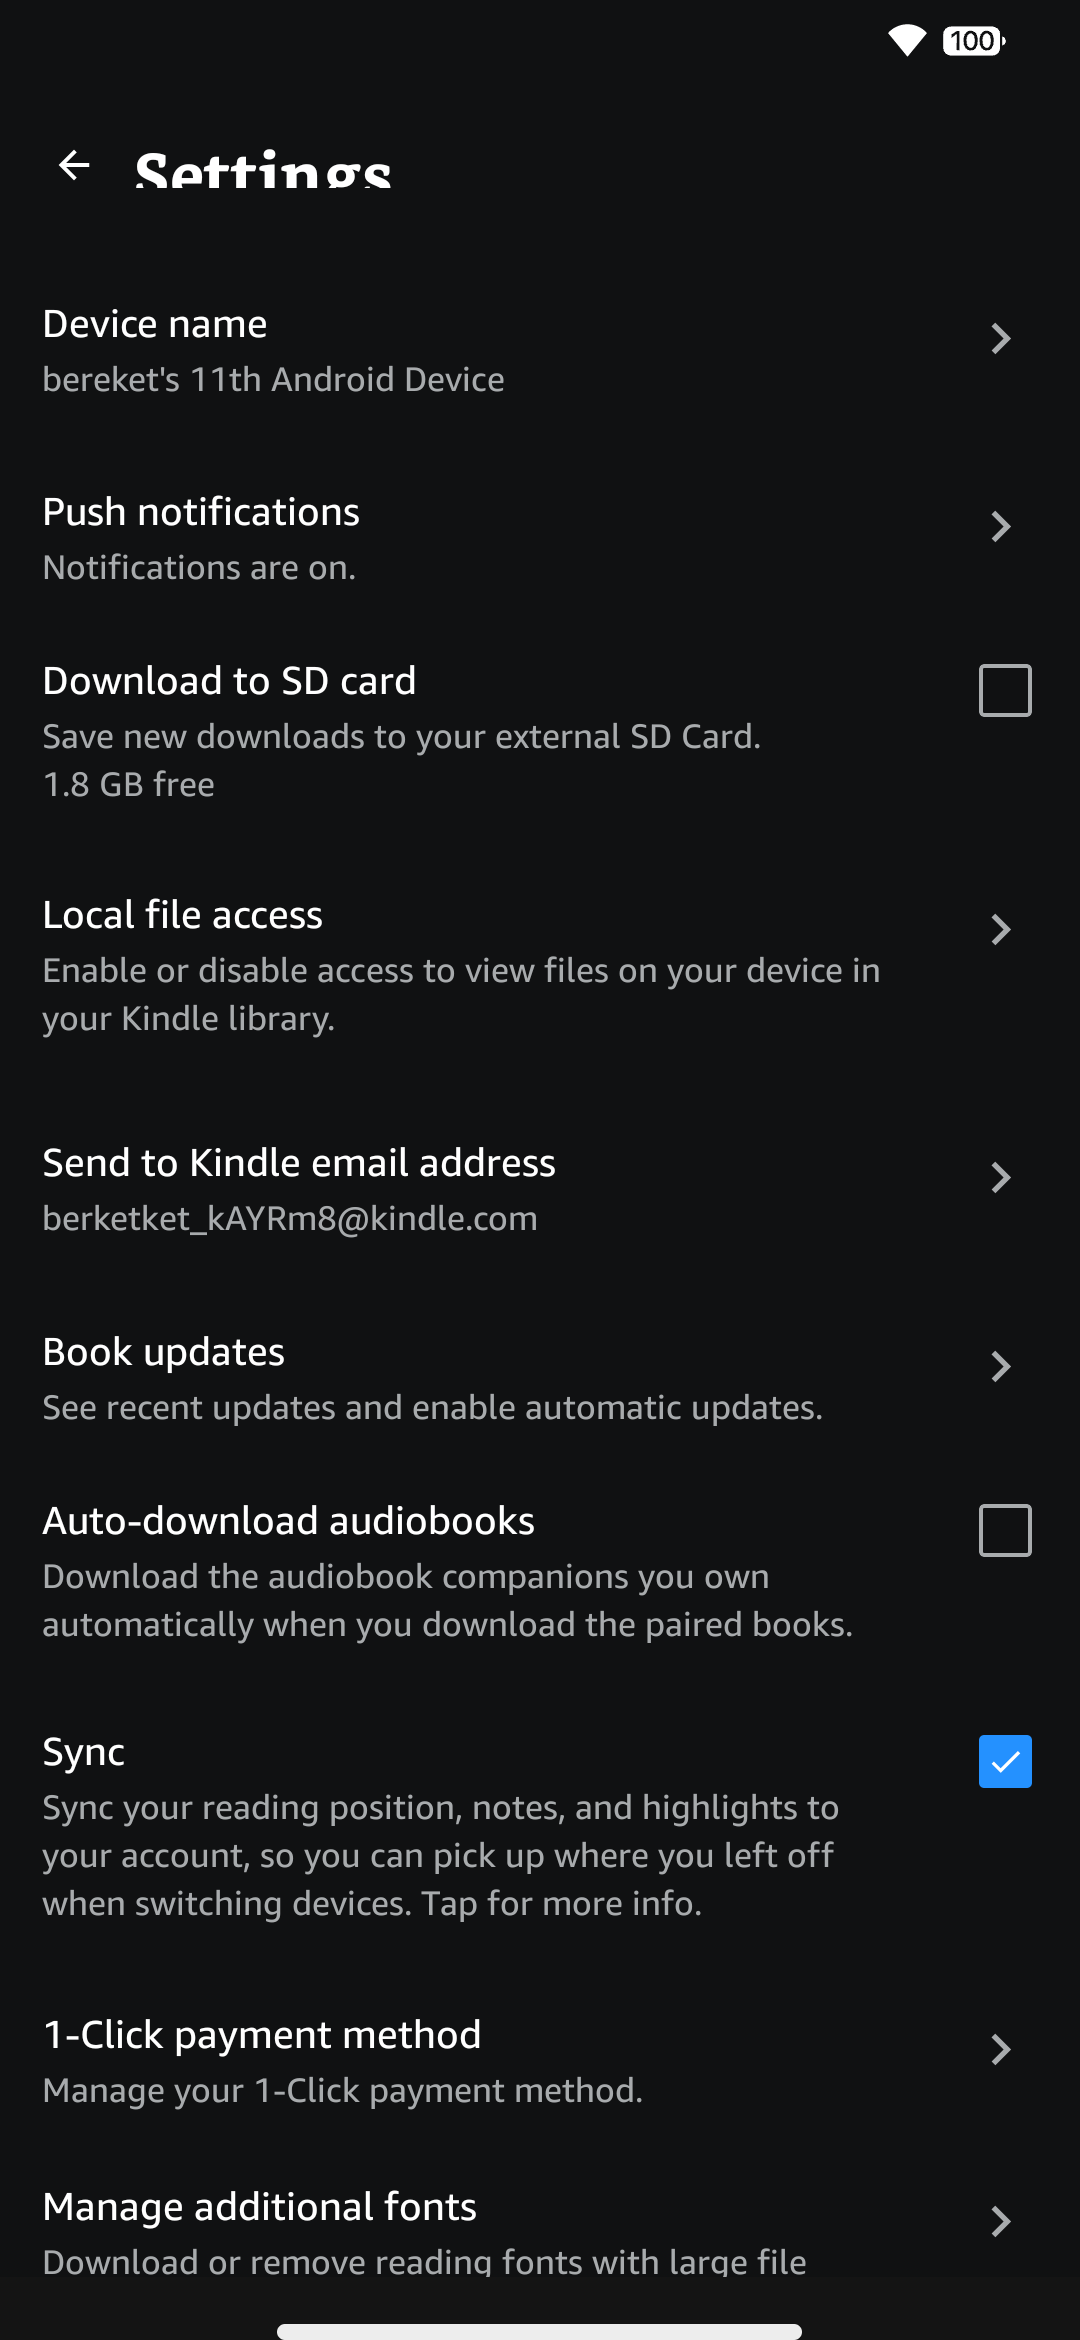
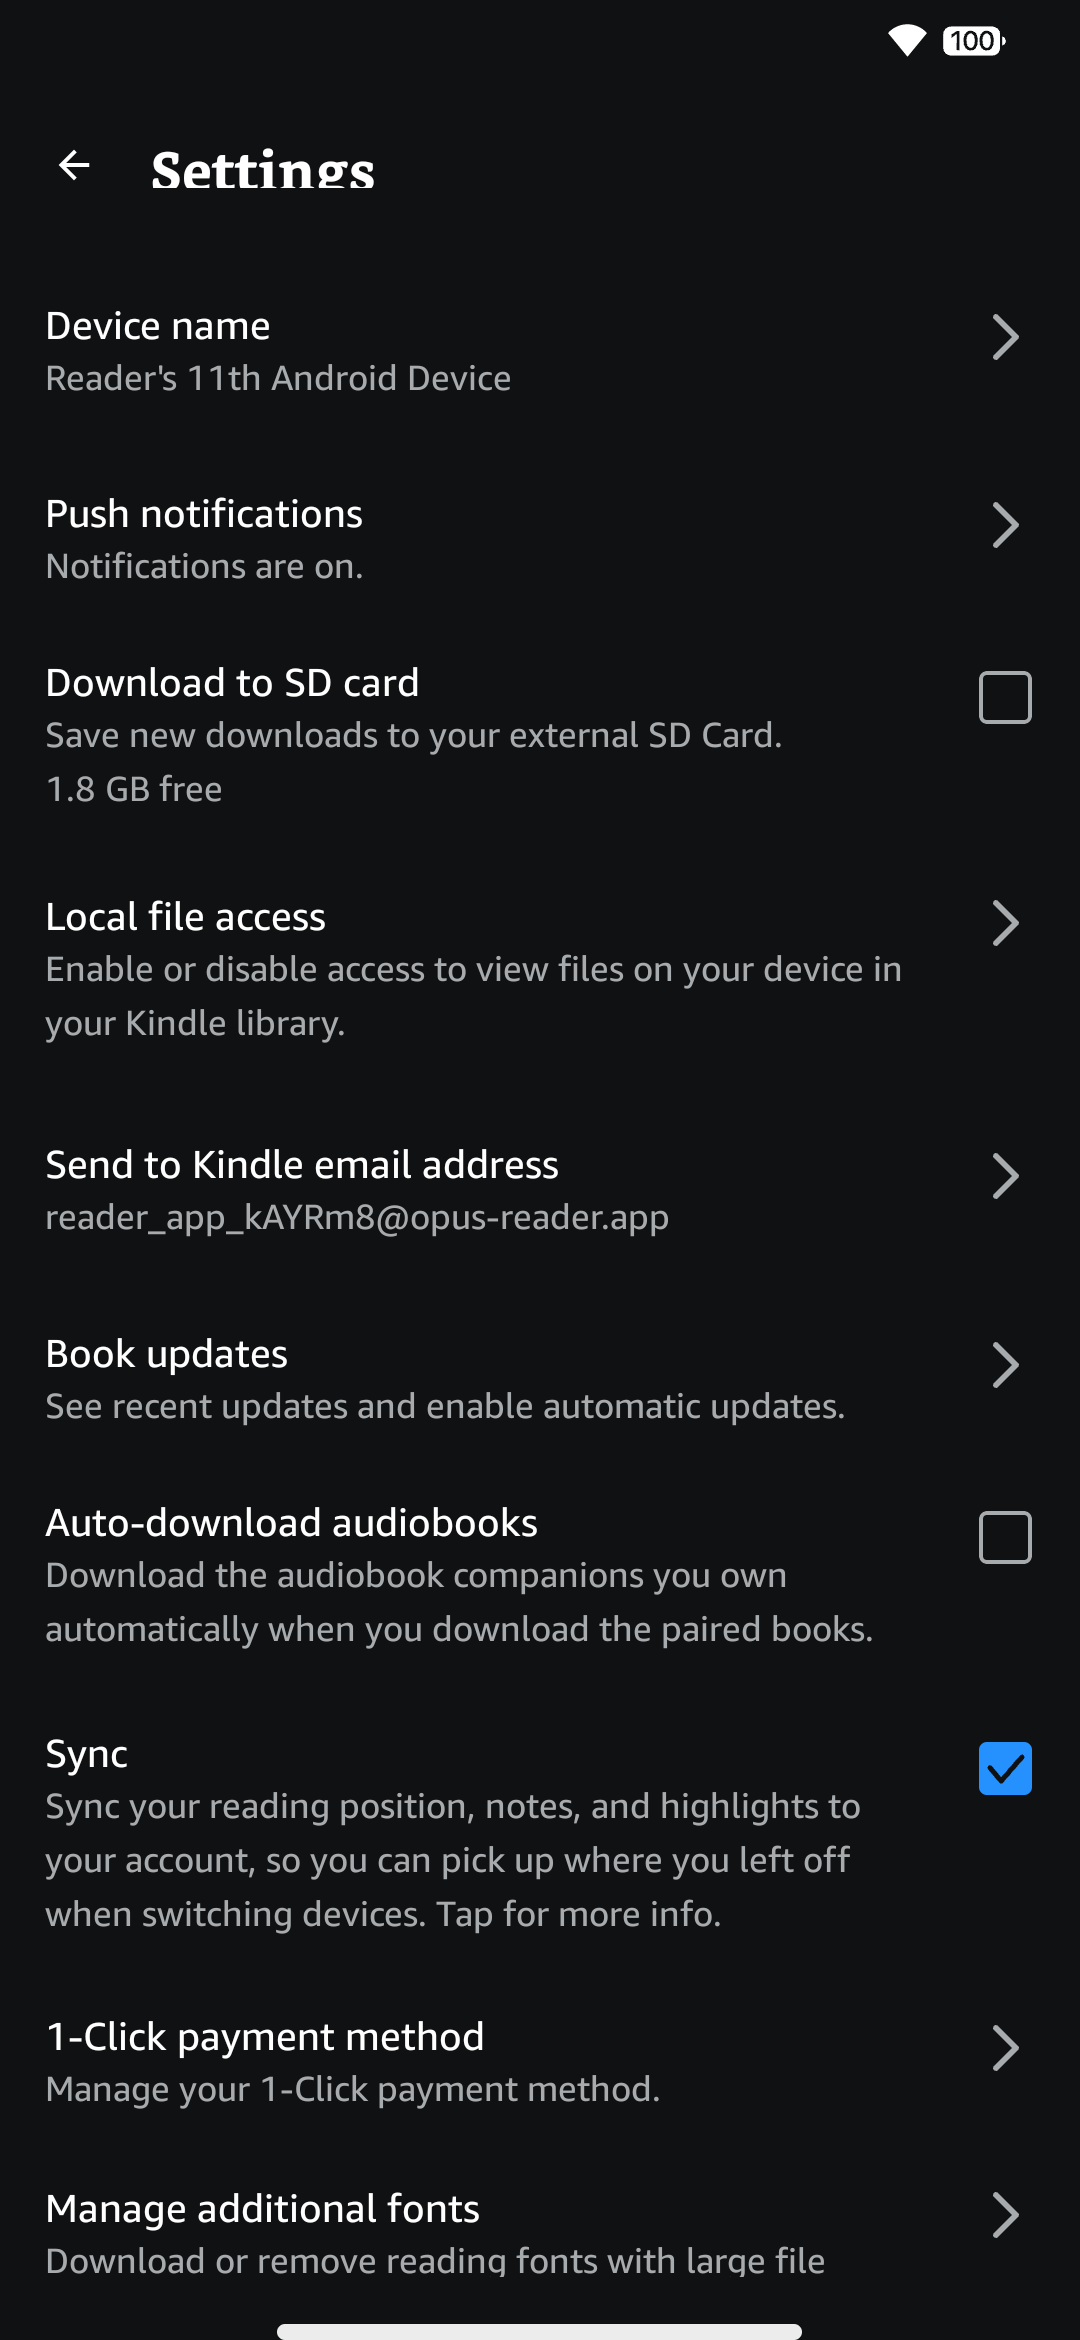
feat(real-ui): calibrate D04 Settings screen layout and verify with honest harness

diff --git a/app/src/main/java/app/opusreader/ui/screens/SettingsScreen.kt b/app/src/main/java/app/opusreader/ui/screens/SettingsScreen.kt
@@ -5,6 +5,7 @@ import android.provider.OpenableColumns
 import android.widget.Toast
 import androidx.activity.compose.rememberLauncherForActivityResult
 import androidx.activity.result.contract.ActivityResultContracts
+import androidx.compose.foundation.Canvas
 import androidx.compose.foundation.Image
 import androidx.compose.foundation.background
 import androidx.compose.foundation.border
@@ -24,8 +25,6 @@ import androidx.compose.foundation.shape.RoundedCornerShape
 import androidx.compose.foundation.verticalScroll
 import androidx.compose.material.icons.Icons
 import androidx.compose.material.icons.automirrored.filled.ArrowBack
-import androidx.compose.material.icons.automirrored.filled.KeyboardArrowRight
-import androidx.compose.material.icons.filled.Check
 import androidx.compose.material3.AlertDialog
 import androidx.compose.material3.Icon
 import androidx.compose.material3.IconButton
@@ -34,6 +33,7 @@ import androidx.compose.material3.OutlinedTextFieldDefaults
 import androidx.compose.material3.Text
 import androidx.compose.material3.TextButton
 import androidx.compose.runtime.Composable
+import androidx.compose.runtime.LaunchedEffect
 import androidx.compose.runtime.getValue
 import androidx.compose.runtime.mutableStateOf
 import androidx.compose.runtime.remember
@@ -42,19 +42,21 @@ import androidx.compose.ui.Alignment
 import androidx.compose.ui.Modifier
 import androidx.compose.ui.draw.clip
 import androidx.compose.ui.graphics.Color
-import androidx.compose.ui.layout.ContentScale
+import androidx.compose.ui.graphics.Path
+import androidx.compose.ui.graphics.StrokeCap
+import androidx.compose.ui.graphics.StrokeJoin
+import androidx.compose.ui.graphics.drawscope.Stroke
 import androidx.compose.ui.platform.LocalContext
-import androidx.compose.ui.res.painterResource
 import androidx.compose.ui.text.font.FontWeight
 import androidx.compose.ui.tooling.preview.Preview
 import androidx.compose.ui.unit.Dp
 import androidx.compose.ui.unit.dp
 import androidx.compose.ui.unit.sp
-import app.opusreader.R
 import app.opusreader.data.Book
 import app.opusreader.data.ContentType
 import app.opusreader.ui.theme.AmazonEmberFontFamily
 import app.opusreader.ui.theme.BookerlyFontFamily
+import app.opusreader.ui.theme.LocalFixtureTrigger
 import app.opusreader.ui.theme.OpusAccentBlue
 import app.opusreader.ui.theme.OpusBackground
 import app.opusreader.ui.theme.OpusDivider
@@ -154,11 +156,17 @@ fun SettingsScreen(
         )
     }
 
+    val scrollState = rememberScrollState()
+    val fixtureTrigger = LocalFixtureTrigger.current
+    LaunchedEffect(fixtureTrigger) {
+        scrollState.scrollTo(0)
+    }
+
     Column(
         modifier = modifier
             .fillMaxSize()
             .background(OpusBackground)
-            .verticalScroll(rememberScrollState())
+            .verticalScroll(scrollState)
     ) {
         // Distance below status bar (y=90) to title band top (y=148): 148 - 90 = 58 px
         Spacer(modifier = Modifier.height(58.refPx))
@@ -171,9 +179,11 @@ fun SettingsScreen(
                 .padding(start = 51.refPx, end = 20.dp),
             verticalAlignment = Alignment.CenterVertically
         ) {
-            IconButton(
-                onClick = onBackClick,
-                modifier = Modifier.size(46.refPx)
+            Box(
+                modifier = Modifier
+                    .size(46.refPx)
+                    .clickable(onClick = onBackClick),
+                contentAlignment = Alignment.CenterStart
             ) {
                 Icon(
                     imageVector = Icons.AutoMirrored.Filled.ArrowBack,
@@ -183,19 +193,19 @@ fun SettingsScreen(
                 )
             }
 
-            Spacer(modifier = Modifier.width(36.refPx))
+            Spacer(modifier = Modifier.width(53.refPx))
 
             Text(
                 text = "Settings",
                 fontFamily = BookerlyFontFamily,
                 fontWeight = FontWeight.Bold,
-                fontSize = 24.sp,
+                fontSize = 21.sp,
                 color = OpusTextPrimary
             )
         }
 
-        // Distance from top bar bottom (187 px) to Row 1 title top (309 px) = 108 px
-        Spacer(modifier = Modifier.height(108.refPx))
+        // Distance from top bar bottom (195 px) to Row 1 title top (309 px) = 113 px
+        Spacer(modifier = Modifier.height(113.refPx))
 
         // Row 1: Device name (starts y=309, pitch=188 px)
         SettingsChevronRow(
@@ -230,6 +240,7 @@ fun SettingsScreen(
             title = "Local file access",
             subtitle = "Enable or disable access to view files on your device in\nyour Kindle library.",
             rowHeight = 248.refPx,
+            chevronTopPadding = 8.refPx,
             onClick = {}
         )
 
@@ -289,6 +300,7 @@ fun SettingsScreen(
             title = "Manage additional fonts",
             subtitle = "Download or remove reading fonts with large file\nsizes.",
             rowHeight = 172.refPx,
+            chevronTopPadding = 8.refPx,
             onClick = onFontManagerClick
         )
 
@@ -301,6 +313,7 @@ private fun SettingsChevronRow(
     title: String,
     subtitle: String,
     rowHeight: Dp,
+    chevronTopPadding: Dp = 13.refPx,
     onClick: () -> Unit
 ) {
     Box(
@@ -308,7 +321,7 @@ private fun SettingsChevronRow(
             .fillMaxWidth()
             .height(rowHeight)
             .clickable(onClick = onClick)
-            .padding(start = 42.refPx, end = 48.refPx),
+            .padding(start = 45.refPx, end = 61.refPx),
         contentAlignment = Alignment.TopStart
     ) {
         Row(
@@ -321,26 +334,22 @@ private fun SettingsChevronRow(
                     fontFamily = AmazonEmberFontFamily,
                     fontWeight = FontWeight.Normal,
                     fontSize = 15.sp,
+                    lineHeight = 18.sp,
                     color = OpusTextPrimary
                 )
-                Spacer(modifier = Modifier.height(6.refPx))
+                Spacer(modifier = Modifier.height(1.refPx))
                 Text(
                     text = subtitle,
                     fontFamily = AmazonEmberFontFamily,
                     fontWeight = FontWeight.Normal,
-                    fontSize = 13.sp,
-                    lineHeight = 18.sp,
+                    fontSize = 13.5.sp,
+                    lineHeight = 20.2.sp,
                     color = OpusTextSecondary
                 )
             }
             Spacer(modifier = Modifier.width(16.dp))
-            Icon(
-                imageVector = Icons.AutoMirrored.Filled.KeyboardArrowRight,
-                contentDescription = null,
-                tint = OpusTextSecondary,
-                modifier = Modifier
-                    .padding(top = 4.dp)
-                    .size(24.dp)
+            SettingsChevron(
+                modifier = Modifier.padding(top = chevronTopPadding)
             )
         }
     }
@@ -359,7 +368,7 @@ private fun SettingsCheckboxRow(
             .fillMaxWidth()
             .height(rowHeight)
             .clickable { onCheckedChange(!checked) }
-            .padding(start = 42.refPx, end = 48.refPx),
+            .padding(start = 45.refPx, end = 48.refPx),
         contentAlignment = Alignment.TopStart
     ) {
         Row(
@@ -372,41 +381,84 @@ private fun SettingsCheckboxRow(
                     fontFamily = AmazonEmberFontFamily,
                     fontWeight = FontWeight.Normal,
                     fontSize = 15.sp,
+                    lineHeight = 18.sp,
                     color = OpusTextPrimary
                 )
-                Spacer(modifier = Modifier.height(6.refPx))
+                Spacer(modifier = Modifier.height(1.refPx))
                 Text(
                     text = subtitle,
                     fontFamily = AmazonEmberFontFamily,
                     fontWeight = FontWeight.Normal,
-                    fontSize = 13.sp,
-                    lineHeight = 18.sp,
+                    fontSize = 13.5.sp,
+                    lineHeight = 20.2.sp,
                     color = OpusTextSecondary
                 )
             }
             Spacer(modifier = Modifier.width(16.dp))
-            val boxShape = RoundedCornerShape(2.dp)
-            Box(
-                modifier = Modifier
-                    .padding(top = 4.dp)
-                    .size(53.refPx)
-                    .clip(boxShape)
-                    .then(
-                        if (checked) Modifier.background(OpusAccentBlue)
-                        else Modifier
-                            .background(Color.Transparent)
-                            .border(1.5.dp, OpusTextSecondary, boxShape)
-                    ),
-                contentAlignment = Alignment.Center
-            ) {
-                if (checked) {
-                    Icon(
-                        imageVector = Icons.Default.Check,
-                        contentDescription = null,
-                        tint = Color.White,
-                        modifier = Modifier.size(15.dp)
-                    )
+            SettingsCheckbox(
+                checked = checked,
+                modifier = Modifier.padding(top = 13.refPx)
+            )
+        }
+    }
+}
+
+@Composable
+private fun SettingsChevron(modifier: Modifier = Modifier) {
+    Canvas(modifier = modifier.size(26.refPx, 46.refPx)) {
+        val strokeWidth = 6.refPx.toPx()
+        val path = Path().apply {
+            moveTo(strokeWidth / 2f, strokeWidth / 2f)
+            lineTo(size.width - strokeWidth / 2f, size.height / 2f)
+            lineTo(strokeWidth / 2f, size.height - strokeWidth / 2f)
+        }
+        drawPath(
+            path = path,
+            color = OpusTextSecondary,
+            style = Stroke(
+                width = strokeWidth,
+                cap = StrokeCap.Round,
+                join = StrokeJoin.Round
+            )
+        )
+    }
+}
+
+@Composable
+private fun SettingsCheckbox(
+    checked: Boolean,
+    modifier: Modifier = Modifier
+) {
+    val boxShape = RoundedCornerShape(3.dp)
+    Box(
+        modifier = modifier
+            .size(53.refPx)
+            .clip(boxShape)
+            .then(
+                if (checked) Modifier.background(OpusAccentBlue)
+                else Modifier
+                    .background(Color.Transparent)
+                    .border(3.refPx, OpusTextSecondary, boxShape)
+            ),
+        contentAlignment = Alignment.Center
+    ) {
+        if (checked) {
+            Canvas(modifier = Modifier.size(32.refPx, 24.refPx)) {
+                val strokeWidth = 5.refPx.toPx()
+                val path = Path().apply {
+                    moveTo(0f, size.height * 0.45f)
+                    lineTo(size.width * 0.35f, size.height)
+                    lineTo(size.width, 0f)
                 }
+                drawPath(
+                    path = path,
+                    color = OpusBackground,
+                    style = Stroke(
+                        width = strokeWidth,
+                        cap = StrokeCap.Round,
+                        join = StrokeJoin.Round
+                    )
+                )
             }
         }
     }

diff --git a/tools/run_fidelity.py b/tools/run_fidelity.py
@@ -150,7 +150,7 @@ def run_scroll_test(sid):
     
     return top_img.exists() and mid_img.exists() and end_img.exists()
 
-def run_screen(sid, ref_rel_path, masks_dict, is_scrollable=False, bottom=24, status=90, skip_capture=False):
+def run_screen(sid, ref_rel_path, masks_dict, is_scrollable=False, bottom=48, status=90, skip_capture=False):
     ref_path = ROOT / ref_rel_path
     if not ref_path.exists():
         return dict(id=sid, status="MISSING_REF", pct_bad=100.0, worst_offset=999, liveness="N/A", scroll="N/A", notes=f"Ref missing: {ref_rel_path}")
@@ -286,7 +286,7 @@ def main():
     ap.add_argument("--all", action="store_true", help="Run all canonical screens")
     ap.add_argument("--skip-capture", action="store_true", help="Diff existing captures without invoking adb")
     ap.add_argument("--status", type=int, default=90)
-    ap.add_argument("--bottom", type=int, default=24)
+    ap.add_argument("--bottom", type=int, default=48)
     args = ap.parse_args()
 
     masks_dict = load_masks()

diff --git a/tools/pixdiff.py b/tools/pixdiff.py
@@ -21,6 +21,8 @@ bad = (d > a.tol) & keep
 rb, pb = bands(r, bg_color(r)), bands(p, bg_color(p))
 offs = []
 for (s, e) in rb:
+    if s < a.status or (a.bottom and e >= r.shape[0] - a.bottom):
+        continue
     c = (s + e) / 2
     if pb:
         j = min(pb, key=lambda q: abs((q[0] + q[1]) / 2 - c)); offs.append(dict(ref=[s, e], app=list(j), dy_top=j[0] - s, dh=(j[1] - j[0]) - (e - s)))

diff --git a/docs/FIDELITY_REPORT.md b/docs/FIDELITY_REPORT.md
@@ -8,7 +8,7 @@ Thresholds per screen (outside masks):
 
 | ID | Screen Name | Reference File | Diff % | Worst Offset (px) | Liveness | Scroll | Status | Notes |
 |---|---|---|---|---|---|---|---|---|
-| D03 | More | `docs/reference/03_more.png` | 5.69% | 43 px | PASS | PASS | FAIL | bad: 5.69%, dy: 43px |
+| D04 | Settings | `docs/reference/04_settings.png` | 8.16% | 6 px | PASS | PASS | FAIL | bad: 8.16%, dy: 6px |
 
 ## Summary
 - **Total canonical screens evaluated**: 1

diff --git a/docs/fidelity/MASKS.md b/docs/fidelity/MASKS.md
@@ -6,6 +6,9 @@ Format:
 # D01: Library grid (Mask 17px strip where bottom row covers are cut off by nav bar at y=2094..2111)
 D01: 0,2094,1080,2111
 
+# D04: Settings (Mask device name and email address per privacy rule)
+D04: 45,355,650,395 45,1190,680,1235
+
 # D12: In-book search (Mask virtual software keyboard)
 D12: 0,1290,1080,2340
 
